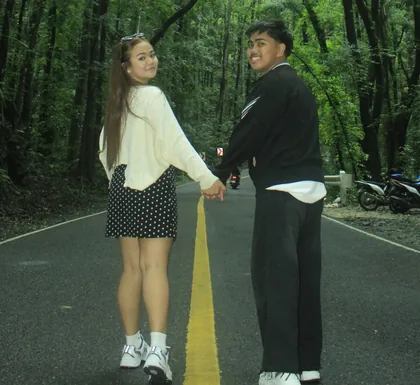
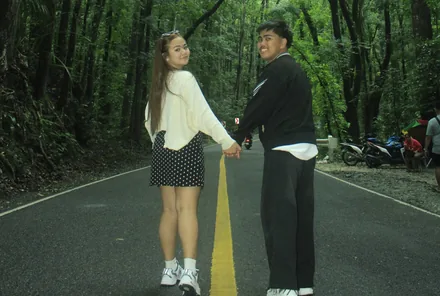
Add files via upload

diff --git a/index.html b/index.html
@@ -23,7 +23,7 @@
 <link rel="preload" href="assets/fonts/plus-jakarta-sans.woff2" as="font" type="font/woff2" crossorigin>
 <link rel="preconnect" href="https://fonts.googleapis.com">
 <link rel="preconnect" href="https://fonts.gstatic.com" crossorigin>
-<link rel="stylesheet" href="assets/css/site.css?v=1.0.1">
+<link rel="stylesheet" href="assets/css/site.css?v=1.0.2">
 <script src="assets/js/main.js?v=1.0.1" defer></script>
 </head>
 <body>
@@ -59,9 +59,8 @@
     </div>
 
     <div class="phone-zone">
-      <span class="scroll-hint hand" aria-hidden="true">scroll to build it ↓</span>
       <div class="phone" role="img" aria-label="Pin. on a phone, showing a trip collage with polaroid photos, a cut-out sticker of a couple and hand-lettered titles">
-        <div class="screen"><span class="screen-hint">your canvas</span></div>
+        <div class="screen"><span class="screen-hint">your canvas<small>scroll to build it ↓</small></span></div>
         <div class="pieces" aria-hidden="true">
           <div class="piece pol" style="left:14px; top:44px; width:128px; --dx:-190px; --dy:-30px; --r0:-20deg; --r1:-6deg;">
             <img src="assets/img/band.webp" alt="" width="116" height="124" style="height:124px" decoding="async" fetchpriority="high">
@@ -73,16 +72,16 @@
             <span class="cap">into the woods</span>
           </div>
           <div class="piece pol" style="left:12px; top:244px; width:150px; padding-bottom:7px; --dx:-200px; --dy:70px; --r0:16deg; --r1:-2deg;">
-            <img src="assets/img/river.webp" alt="" width="138" height="88" style="height:88px" decoding="async">
+            <img src="assets/img/river.webp" alt="" width="138" height="93" style="height:93px" decoding="async">
             <span class="tape" style="width:50px; right:16px; top:-9px; transform:rotate(-8deg); background:rgba(255,255,255,.75)"></span>
           </div>
-          <div class="piece" style="left:162px; top:292px; width:100px; --dx:180px; --dy:90px; --r0:-20deg; --r1:0deg;">
-            <img class="stk" src="assets/img/sticker.webp" alt="" width="100" height="157" style="width:100px; height:auto; display:block" decoding="async">
+          <div class="piece" style="left:176px; top:290px; width:88px; --dx:180px; --dy:90px; --r0:-20deg; --r1:0deg;">
+            <img class="stk" src="assets/img/sticker.webp" alt="" width="88" height="138" style="width:88px; height:auto; display:block" decoding="async">
           </div>
-          <div class="piece dump-title" style="left:146px; top:16px; --dx:70px; --dy:-120px; --r0:10deg; --r1:-5deg;">
-            <div style="font-size:26px">Today</div><div style="font-size:46px">DUMP!</div>
+          <div class="piece dump-title" style="left:142px; top:18px; --dx:70px; --dy:-120px; --r0:10deg; --r1:-5deg;">
+            <div style="font-size:22px">Today</div><div style="font-size:38px">DUMP!</div>
           </div>
-          <div class="piece script" style="left:18px; top:410px; font-size:44px; --dx:-130px; --dy:110px; --r0:-12deg; --r1:-6deg;">Forest Road</div>
+          <div class="piece script" style="left:16px; top:436px; font-size:38px; --dx:-130px; --dy:110px; --r0:-12deg; --r1:-6deg;">Forest Road</div>
           <svg class="piece" width="36" height="36" viewBox="0 0 40 40" style="left:120px; top:150px; --dx:40px; --dy:-160px; --r0:90deg; --r1:0deg;"><path d="M20 3C21 15 25 19 37 20C25 21 21 25 20 37C19 25 15 21 3 20C15 19 19 15 20 3Z" fill="#F9C6C2" stroke="#1F1A19" stroke-width="1.5"/></svg>
         </div>
       </div>
@@ -178,14 +177,14 @@
               <div class="pol" style="position:absolute; left:124px; top:128px; width:102px; transform:rotate(5deg)"><img src="assets/img/temple.webp" alt="" width="90" height="90" style="height:90px" loading="lazy" decoding="async"><span class="cap" style="font-size:15px">into the woods</span></div>
             </div>
             <div class="plane" style="--i:3">
-              <div class="pol" style="position:absolute; left:10px; top:206px; width:128px; padding-bottom:6px; transform:rotate(-2deg)"><img src="assets/img/river.webp" alt="" width="116" height="76" style="height:76px" loading="lazy" decoding="async"></div>
+              <div class="pol" style="position:absolute; left:10px; top:206px; width:128px; padding-bottom:6px; transform:rotate(-2deg)"><img src="assets/img/river.webp" alt="" width="116" height="78" style="height:78px" loading="lazy" decoding="async"></div>
             </div>
             <div class="plane" style="--i:4">
-              <img class="stk" src="assets/img/sticker.webp" alt="" width="86" height="135" style="position:absolute; left:138px; top:250px; width:86px; height:auto" loading="lazy" decoding="async">
+              <img class="stk" src="assets/img/sticker.webp" alt="" width="74" height="116" style="position:absolute; left:156px; top:262px; width:74px; height:auto" loading="lazy" decoding="async">
             </div>
             <div class="plane" style="--i:5">
-              <div class="dump-title" style="position:absolute; left:124px; top:12px; transform:rotate(-5deg)"><div style="font-size:22px">Today</div><div style="font-size:40px">DUMP!</div></div>
-              <div class="script" style="position:absolute; left:14px; top:350px; font-size:38px; transform:rotate(-6deg)">Forest Road</div>
+              <div class="dump-title" style="position:absolute; left:122px; top:12px; transform:rotate(-5deg)"><div style="font-size:19px">Today</div><div style="font-size:32px">DUMP!</div></div>
+              <div class="script" style="position:absolute; left:12px; top:382px; font-size:32px; transform:rotate(-6deg)">Forest Road</div>
             </div>
           </div>
         </div>

diff --git a/assets/css/site.css b/assets/css/site.css
@@ -231,7 +231,9 @@ a { color: inherit; }
 .screen-hint {
   position: absolute; inset: 0; display: flex; align-items: center; justify-content: center;
   font-family: var(--hand); font-size: 1.6rem; color: #8C8478; opacity: calc(1 - var(--p) * 1.6);
+  flex-direction: column; gap: 6px; text-align: center;
 }
+.screen-hint small { font-size: 1.15rem; color: #B0867A; }
 .pieces { position: absolute; left: 10px; top: 10px; width: 280px; height: 498px; }
 .piece {
   position: absolute; will-change: transform;
@@ -397,13 +399,13 @@ a { color: inherit; }
   .layers-grid { grid-template-columns: minmax(0, 1fr); gap: 8px; }
   .layers-grid .feature-copy { gap: 10px; }
   .layers-grid .lede { font-size: 0.98rem; }
-  .stack-zone { min-height: 0; height: 380px; order: -1; }
-  .stack { transform: scale(.78) rotateX(calc(var(--lp) * 54deg)) rotateZ(calc(var(--lp) * -32deg)); }
+  .stack-zone { min-height: 0; height: 350px; order: -1; }
+  .stack { transform: translateY(calc(var(--lp) * 46px)) scale(.7) rotateX(calc(var(--lp) * 54deg)) rotateZ(calc(var(--lp) * -32deg)); }
   .layer-list { display: grid; grid-template-columns: repeat(2, minmax(0, 1fr)); gap: 6px; max-width: none; }
   .layer-btn { min-height: 44px; font-size: 0.82rem; padding: 4px 10px; }
   .layer-btn .k { display: none; }
 }
-@media (max-width: 880px) and (max-height: 760px) { .stack-zone { height: 320px; } .stack { transform: scale(.64) rotateX(calc(var(--lp) * 54deg)) rotateZ(calc(var(--lp) * -32deg)); } .layers-grid .lede { display: none; } }
+@media (max-width: 880px) and (max-height: 860px) { .stack-zone { height: 320px; } .stack { transform: translateY(calc(var(--lp) * 40px)) scale(.6) rotateX(calc(var(--lp) * 54deg)) rotateZ(calc(var(--lp) * -32deg)); } .layers-grid .lede { display: none; } }
 
 /* toolbox list */
 .toolbox { display: grid; grid-template-columns: repeat(3, minmax(0, 1fr)); gap: 16px; margin-top: 40px; }

diff --git a/download.html b/download.html
@@ -21,7 +21,7 @@
 <meta name="twitter:card" content="summary_large_image">
 <link rel="preload" href="assets/fonts/plus-jakarta-sans.woff2" as="font" type="font/woff2" crossorigin>
 <link rel="preload" href="assets/fonts/dm-serif-display.woff2" as="font" type="font/woff2" crossorigin>
-<link rel="stylesheet" href="assets/css/site.css?v=1.0.1">
+<link rel="stylesheet" href="assets/css/site.css?v=1.0.2">
 <script src="assets/js/vendor/qrcode.js?v=1.4.4" defer></script>
 <script src="assets/js/download.js?v=1.0.1" defer></script>
 </head>
